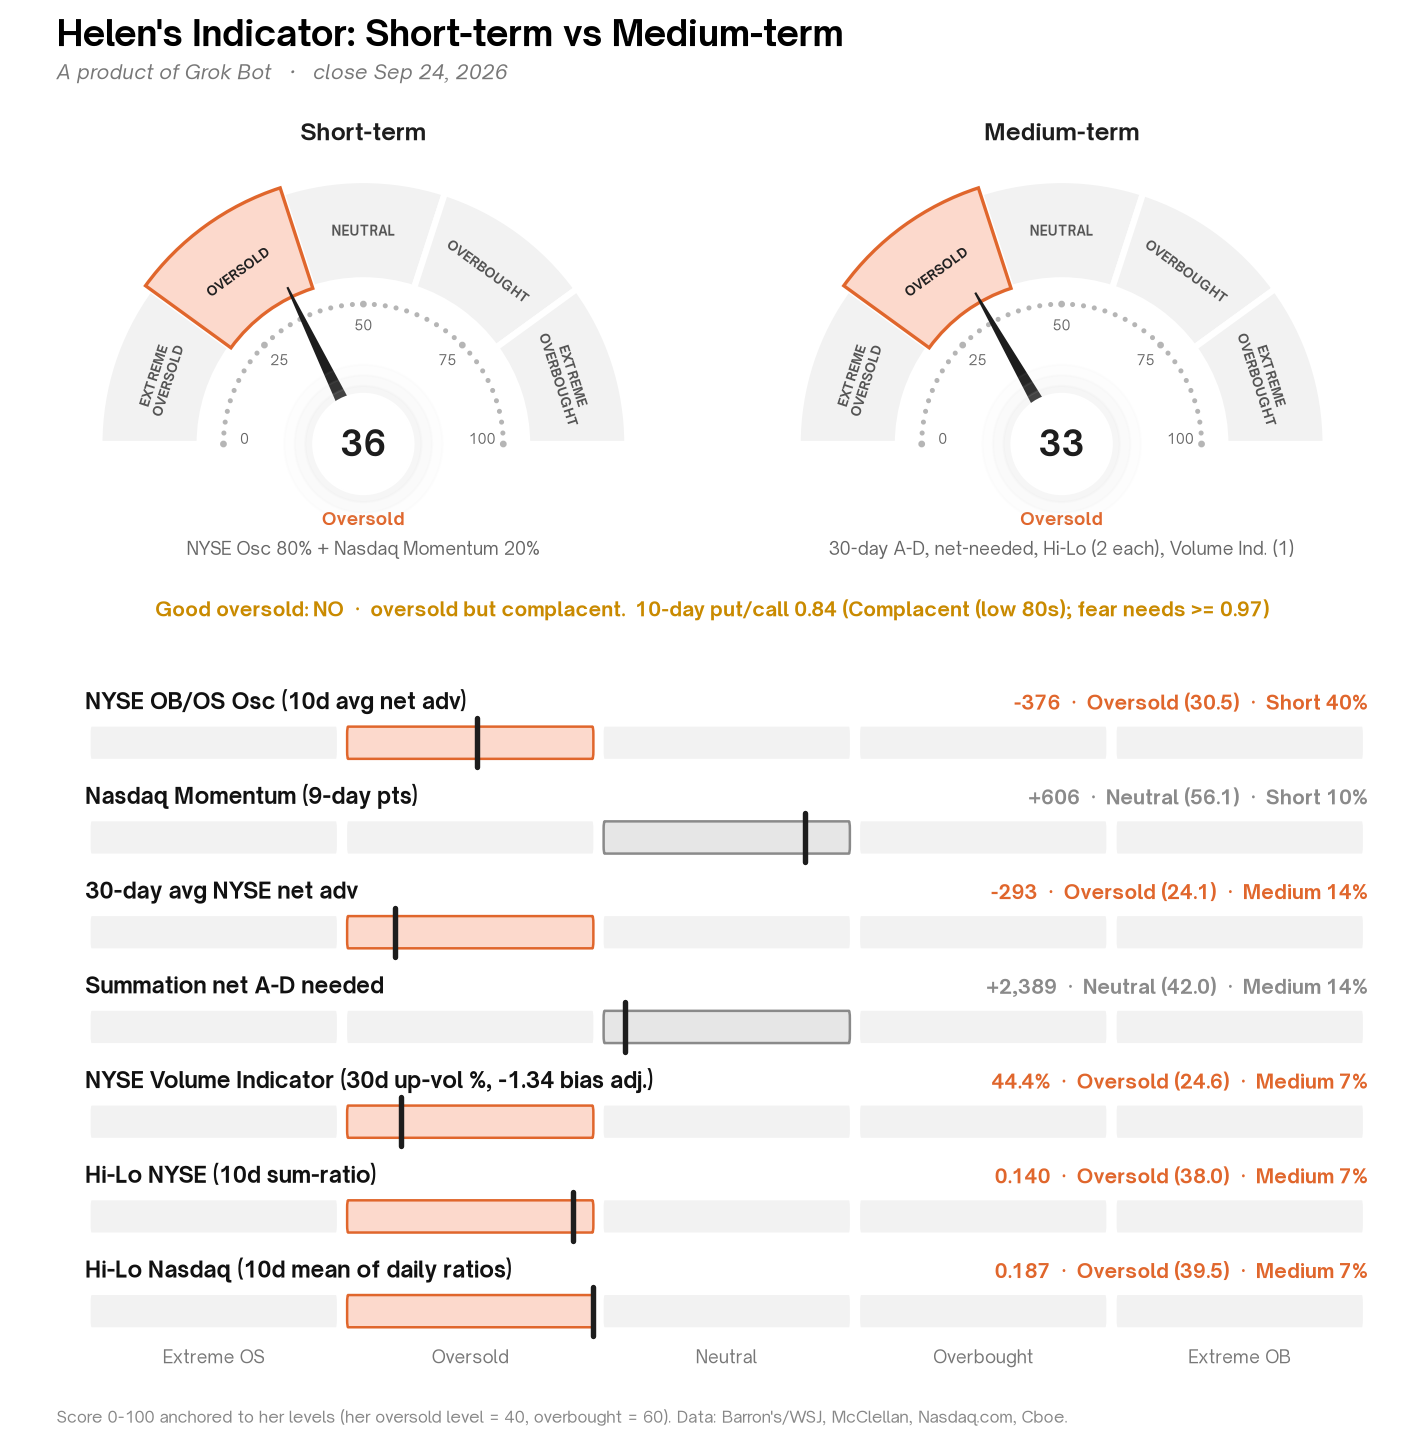
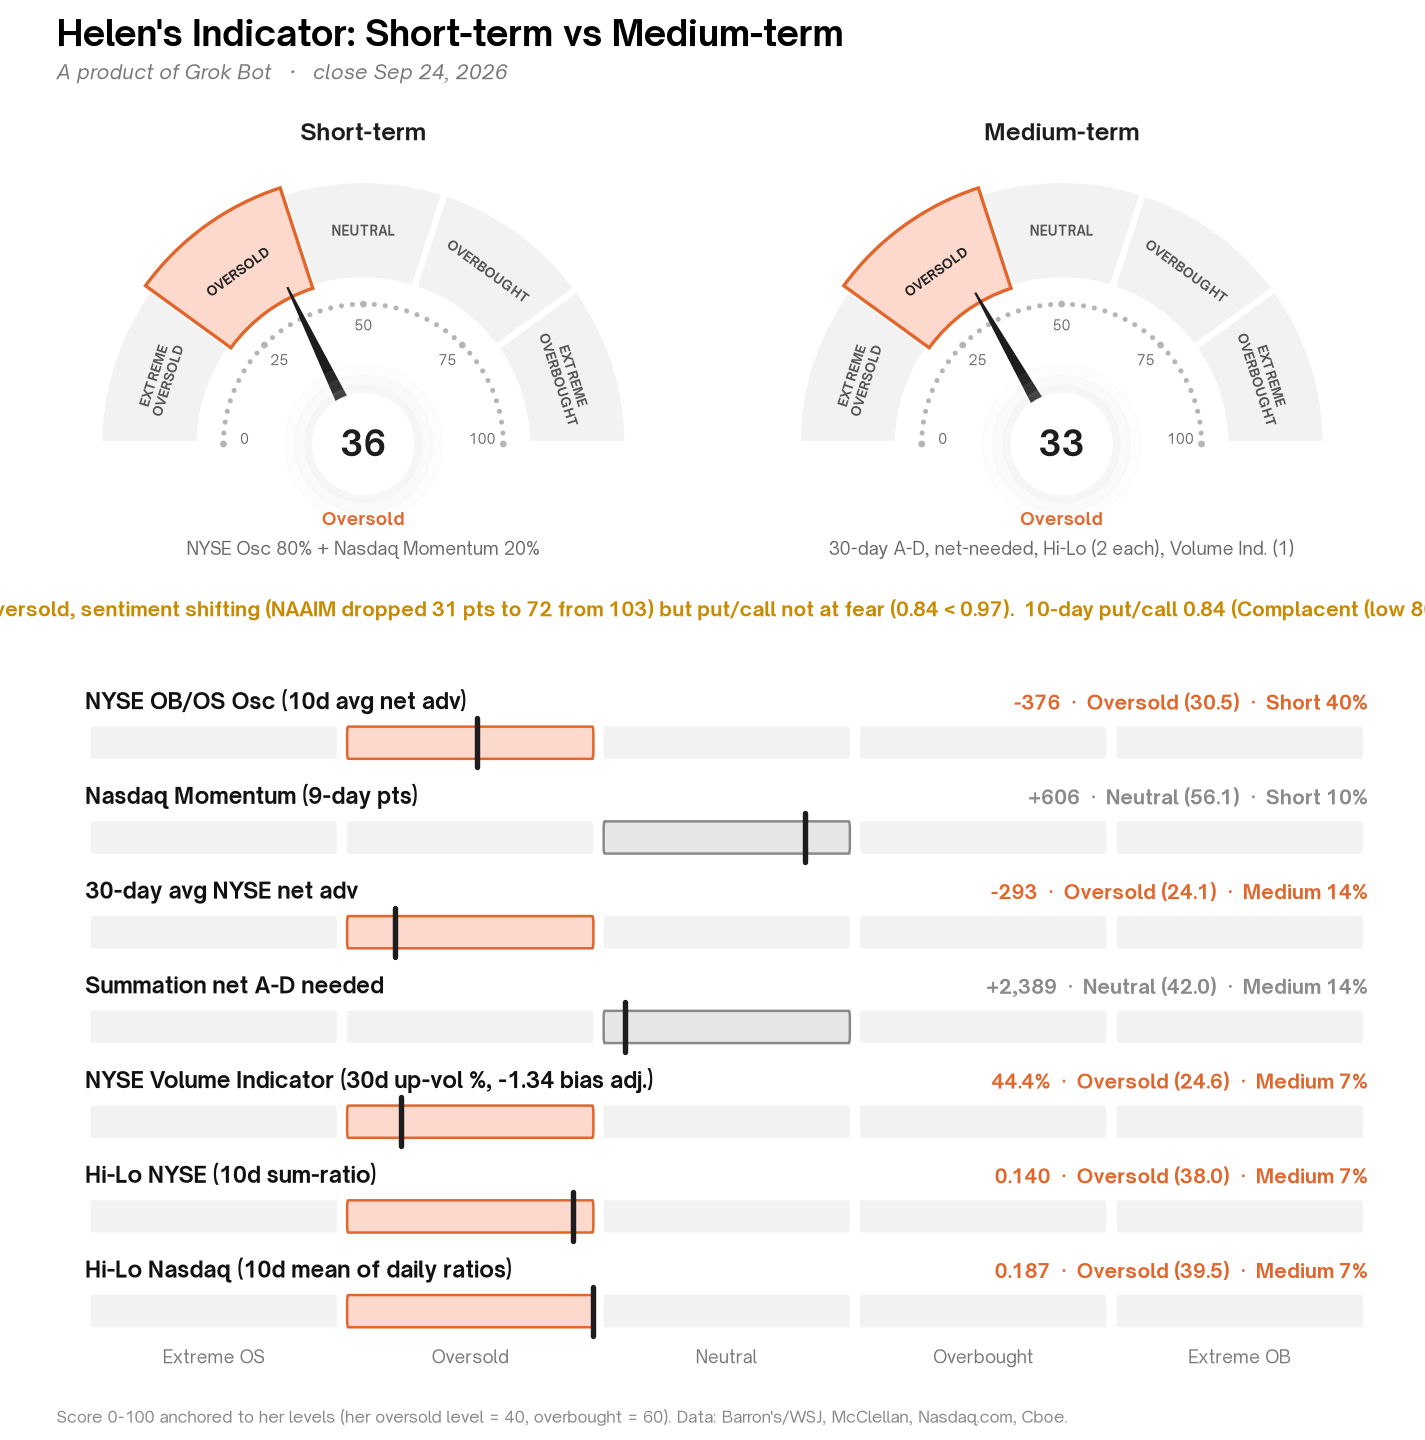
Update 2026-09-25 14:30 EDT

Changed region(s): [[0.0, 0.4062, 1.0, 0.4375]]

diff --git a/index.html b/index.html
@@ -38,6 +38,8 @@ a{color:#7fb3ff}
 .gate .big{font-size:34px;font-weight:800;line-height:1.05}.gate.no .big{color:#f0b93a}.gate.yes .big{color:#1fb58f}
 .gate .hd{font-weight:700;font-size:16px;margin-bottom:4px}.gate ul{margin:4px 0 0;padding-left:18px}.gate li{margin:2px 0}
 .gate .ok{color:#1fb58f;font-weight:700}.gate .miss{color:#f0b93a;font-weight:700}.gate .sm{color:var(--mut);font-size:12.5px;margin-top:6px}
+.sent{margin-top:10px;border-top:1px dashed #5a4a25;padding-top:8px;font-size:13.5px}.sent .nv{font-size:22px;font-weight:800}.sent .lab{font-weight:700}
+.gate.yes .sent{border-top-color:#2c6b58}
 .hdr{display:flex;justify-content:space-between;align-items:center;flex-wrap:wrap;gap:6px}
 svg text{font-family:inherit}
 @media(max-width:600px){table{font-size:13px}td.s{white-space:normal}.tag{font-size:11px}th,td{padding:8px 4px}.desc{font-size:11px}header h1{font-size:26px}}
@@ -51,7 +53,7 @@ svg text{font-family:inherit}
   <div class="stamp" id="stamp">Loading…</div>
 </header>
 <div class="gate no" id="gate"><div><div class="flag">Good oversold?</div><div class="big" id="gflag">…</div></div>
-  <div style="flex:1;min-width:260px"><div class="hd" id="ghead"></div><ul id="greasons"></ul><div class="sm" id="gdrop"></div><div class="sm" id="grule"></div></div></div>
+  <div style="flex:1;min-width:260px"><div class="hd" id="ghead"></div><ul id="greasons"></ul><div class="sent" id="gsent" style="display:none"></div><div class="sm" id="gdrop"></div><div class="sm" id="grule"></div></div></div>
 <div class="grid">
   <div class="card">
     <h2>Composite breadth gauge</h2>
@@ -81,7 +83,7 @@ svg text{font-family:inherit}
   Rows marked "context" are shown for reference and are not in the score. Zones: 0–20 Extreme Oversold · 20–40 Oversold · 40–60 Neutral · 60–80 Overbought · 80–100 Extreme Overbought.
   Each component's score is anchored so that <b>her own oversold level = 40</b> (the edge of the Oversold zone) and her overbought level = 60; "Extreme" is reserved for readings beyond what she called merely oversold.
   Weights: NYSE Oscillator 40%, Nasdaq Momentum 10%, 30-day A-D 14.3%, net-needed 14.3%, Volume Indicator 7.1% (formula unconfirmed, bias-adjusted), Hi-Lo NYSE 7.1%, Hi-Lo Nasdaq 7.1%.
-  <b>Good oversold</b> (her rule) = short-term AND medium-term oversold AND bearish sentiment (10-day total put/call ≥ .97, "top of the page"); a bare "Oversold" reading without it is not her buy signal.
+  <b>Good oversold</b> (her rule) = short-term AND medium-term oversold AND bearish sentiment (10-day total put/call ≥ .97, "top of the page"; or .92–.97 confirmed by the NAAIM Exposure Index in fear, ≤ 65). NAAIM feeds only this flag, never the score; a bare "Oversold" reading without it is not her buy signal.
   Updated Sep 25, 2026 after an independent review.
   Not investment advice. <span id="src"></span>
   <br>Static charts: <a href="obos_gauge.png">gauge</a> · <a href="obos_gauge_components.png">components</a> · <a href="obos_score_history.png">history</a> · <a href="obos_dashboard.png">dashboard</a> · <a href="data.json">data.json</a>
@@ -140,8 +142,17 @@ function render(d){D=d;
   for(const [id,o] of [['stz',d.short_term],['mtz',d.medium_term]]){const e=document.getElementById(id);e.textContent=o.zone;e.className='zone z'+zi(o.score)}
   document.getElementById('badges').innerHTML=d.badges.map(b=>`<div class="row"><div><div class="l">${esc(b.label)}</div><div class="z">${esc(b.zone)}</div><div class="d">${b.date?new Date(b.date+'T12:00:00').toLocaleDateString('en-US',{month:'short',day:'numeric',year:'numeric'}):''}</div></div><div class="pill p${zi(b.score)}">${b.score==null?'–':Math.round(b.score)}</div></div>`).join('');
   const g=d.good_oversold;if(g){const box=document.getElementById('gate');box.className='gate '+(g.value?'yes':'no');
-    document.getElementById('gflag').textContent=g.flag;const g2=document.getElementById('gflag2');g2.textContent=g.flag+(g.value?'':' (complacent)'.replace(' (complacent)',g.conditions.bearish_sentiment?'':' (no bearish sentiment)'));g2.style.color=g.value?'#1fb58f':'#f0b93a';document.getElementById('ghead').textContent=g.headline;
+    document.getElementById('gflag').textContent=g.flag;const g2=document.getElementById('gflag2');g2.textContent=g.flag+(g.value?'':(g.conditions.naaim_shift&&g.conditions.short_term_oversold&&g.conditions.medium_term_oversold?' (sentiment shifting)':(g.conditions.bearish_sentiment?'':' (no bearish sentiment)')));g2.style.color=g.value?'#1fb58f':'#f0b93a';document.getElementById('ghead').textContent=g.headline;
     document.getElementById('greasons').innerHTML=g.reasons.map(r=>{const m=/: met$/.test(r);return `<li>${esc(r.replace(/: (met|missing)$/,''))}: <span class="${m?'ok':'miss'}">${m?'met':'missing'}</span></li>`}).join('');
+    const n=d.naaim,se=document.getElementById('gsent');if(n&&n.latest){const L=n.latest,fd=x=>x?new Date(x+'T12:00:00').toLocaleDateString('en-US',{month:'short',day:'numeric',year:'numeric'}):'n/a',sg=x=>(x>0?'+':'')+x.toFixed(2);
+      const lc=/fear/i.test(L.label)?'#1fb58f':(/margin|High/.test(L.label)?'#e0662c':(/shift/i.test(L.label)?'#f0b93a':'#9aa1ad'));
+      const hv=n.history.value.slice(-26),mn=Math.min(...hv,40),mx=Math.max(...hv,110),W=160,Hh=34,px=i=>(i*(W-4)/(hv.length-1)+2).toFixed(1),py=v=>(Hh-2-(v-mn)*(Hh-4)/(mx-mn)).toFixed(1);
+      const sp=`<svg width="${W}" height="${Hh}" style="vertical-align:middle;margin-left:8px"><line x1="0" x2="${W}" y1="${py(100)}" y2="${py(100)}" stroke="#e0662c" stroke-dasharray="3 3" stroke-width="1"/><line x1="0" x2="${W}" y1="${py(65)}" y2="${py(65)}" stroke="#1fb58f" stroke-dasharray="3 3" stroke-width="1"/><polyline fill="none" stroke="#e8eaee" stroke-width="1.5" points="${hv.map((v,i)=>px(i)+','+py(v)).join(' ')}"/></svg>`;
+      se.style.display='';se.innerHTML=`<b>Sentiment: NAAIM Exposure Index</b> <span class="nv">${L.value.toFixed(2)}</span> <span class="lab" style="color:${lc}">${esc(L.label)}</span>${L.stale?' <span class="miss">(stale, not used)</span>':''}${sp}`+
+        `<div>Survey ${fd(L.date)} (Wed close), released ${fd(L.released)} · week-over-week: ${L.wow_change!=null?sg(L.wow_change)+' (prior week '+L.prior_week_value.toFixed(2)+')':'n/a (prior week not available)'}`+
+        `${L.wow_change==null&&L.prev_value!=null?' · vs last available reading ('+fd(L.prev_date)+', '+L.prev_value.toFixed(2)+'): '+sg(L.change_vs_prev):''}`+
+        `${L.shift?' · down '+L.drop_from_recent_high.toFixed(0)+' pts from the ~4-week high ('+L.recent_high.toFixed(2)+')':''}</div>`+
+        `<div class="sm">Bands (her levels): &gt;100 on margin · 90–100 high/complacent · 65–90 neutral · ≤65 fear · &lt;50 extreme fear · drop ≥20 pts in ~4 wks = sentiment shift. Source: ${L.source=='meisler_column'?'reading quoted in Meisler\'s column':'naaim.org free table'}. ${esc(n.note)}</div>`;}
     document.getElementById('gdrop').innerHTML='<b>Drop-off math:</b> '+esc(g.dropoff.text);
     document.getElementById('grule').textContent=g.rule+' '+g.not_included;}
   document.getElementById('comps').innerHTML=d.components.map(k=>{const i=k.scored?zi(k.score):(k.tone!=null?k.tone:ziName(k.status)),[ec,fc]=zc(i);
